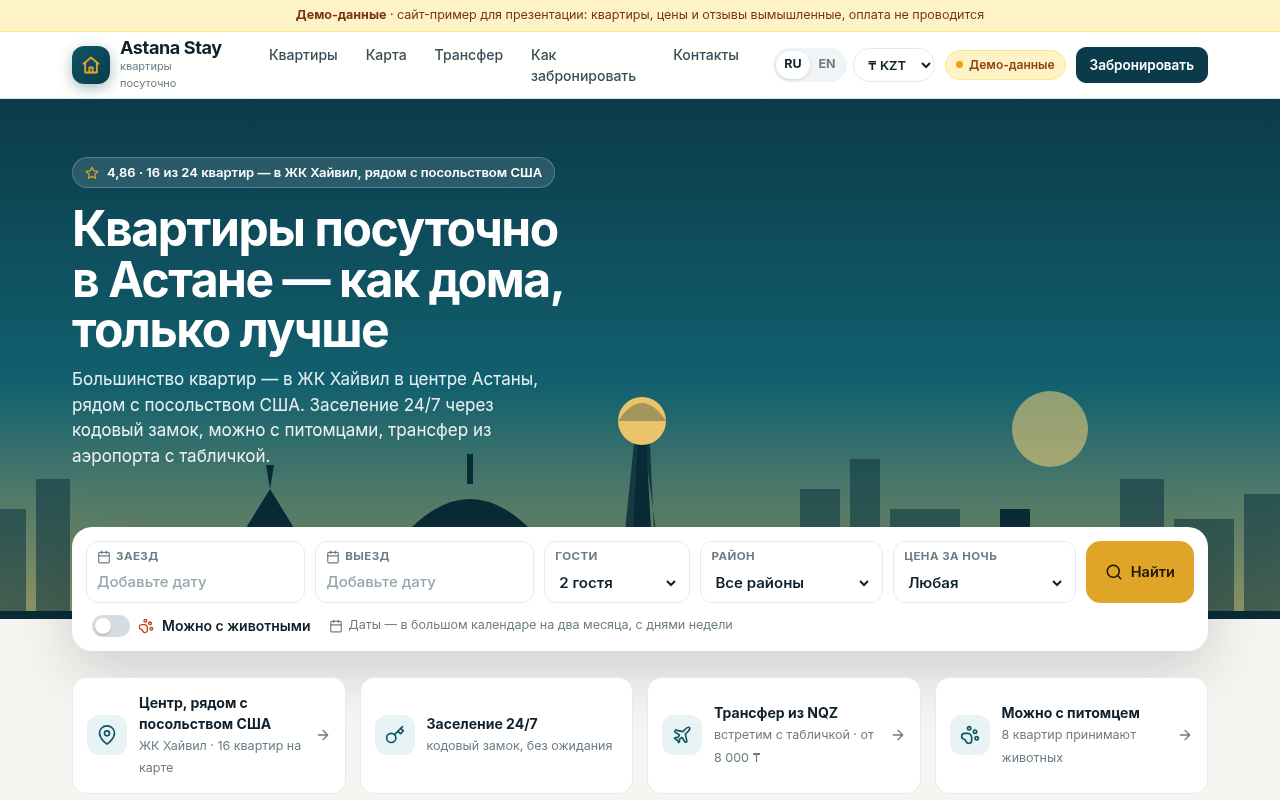
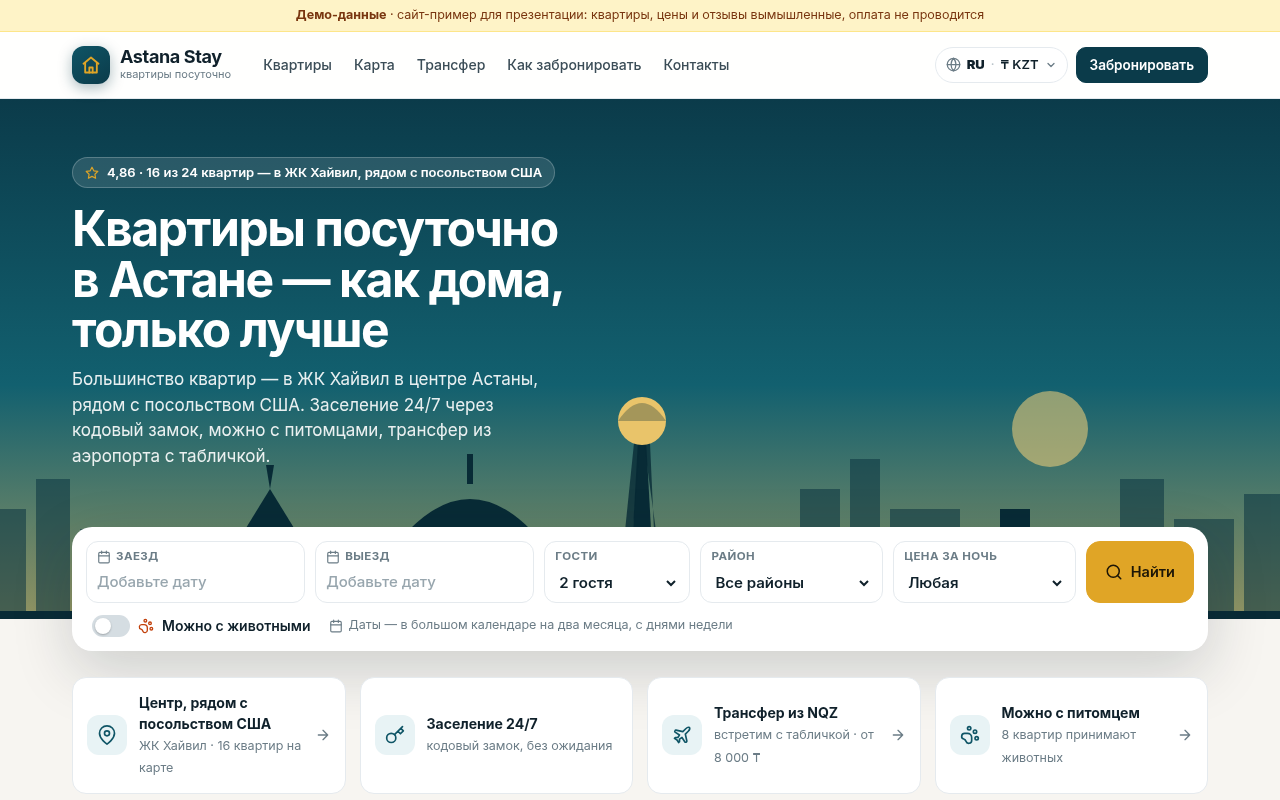
Шапка сайта: всё в одну строку, язык и валюта в одном меню, бургер на узких экранах

Changed region(s): [[0.0938, 0.0312, 0.6562, 0.125], [0.6875, 0.0625, 0.8438, 0.125]]

diff --git a/assets/guest.css b/assets/guest.css
@@ -13,15 +13,17 @@ h1,h2,h3,h4{margin:0;letter-spacing:-.015em}
 .demo-ribbon{background:#fef3c7;color:#78350f;font-size:12.5px;text-align:center;padding:6px 12px;border-bottom:1px solid #fde68a}
 .demo-ribbon b{font-weight:700}
 header.site{position:sticky;top:0;z-index:40;background:rgba(255,255,255,.92);backdrop-filter:blur(10px);border-bottom:1px solid var(--line)}
-.hdr{display:flex;align-items:center;gap:22px;height:66px}
-.logo{display:flex;align-items:center;gap:10px;text-decoration:none}
+.hdr{display:flex;align-items:center;gap:18px;height:66px;flex-wrap:nowrap}
+.hdr>*{flex:none}
+.logo{display:flex;align-items:center;gap:10px;text-decoration:none;white-space:nowrap}
 .logo-mk{width:38px;height:38px;border-radius:12px;background:linear-gradient(145deg,var(--brand2),var(--brand));display:grid;place-items:center;color:var(--accent);box-shadow:0 4px 14px rgba(11,59,74,.35);flex:none}
 .logo b{font-size:18px;letter-spacing:-.02em;display:block;line-height:1.1}
 .logo small{font-size:11px;color:var(--muted);display:block}
-.hnav{display:flex;gap:4px;margin-left:10px}
-.hnav a{text-decoration:none;color:var(--ink2);font-weight:500;padding:8px 12px;border-radius:10px;font-size:14px}
+.hnav{display:flex;gap:2px;margin-left:4px;flex-wrap:nowrap}
+.hnav a{text-decoration:none;color:var(--ink2);font-weight:500;padding:8px 10px;border-radius:10px;font-size:14px;white-space:nowrap}
 .hnav a:hover{background:#f1f4f6}
-.hright{margin-left:auto;display:flex;align-items:center;gap:10px}
+.hright{margin-left:auto;display:flex;align-items:center;gap:8px;flex-wrap:nowrap}
+.hright .btn{white-space:nowrap}
 .demo-badge{display:inline-flex;align-items:center;gap:6px;background:#fef3c7;color:#92400e;border:1px solid #fde68a;font-weight:600;font-size:12px;padding:5px 10px;border-radius:999px;white-space:nowrap}
 .demo-badge i{width:7px;height:7px;border-radius:50%;background:#f59e0b;display:inline-block}
 .btn{display:inline-flex;align-items:center;justify-content:center;gap:8px;height:44px;padding:0 18px;border-radius:12px;font-weight:650;font-size:14.5px;border:1px solid var(--line);background:#fff;color:var(--ink);transition:all .15s;white-space:nowrap;text-decoration:none}
@@ -180,7 +182,7 @@ textarea.inp{height:auto;min-height:70px;padding:10px 13px;resize:vertical}
 .recap .ln span:last-child{font-weight:600;text-align:right}
 .toast{position:fixed;left:50%;bottom:22px;transform:translateX(-50%);background:#10212b;color:#fff;padding:11px 16px;border-radius:12px;z-index:120;font-size:14px;box-shadow:0 10px 30px rgba(0,0,0,.3);max-width:calc(100% - 24px);animation:pop .2s}
 .mbar{display:none}
-@media (max-width:1020px){.search-card{grid-template-columns:1fr 1fr 1fr}.search-card .btn{min-height:50px}.grid{grid-template-columns:repeat(2,minmax(0,1fr))}.perks{grid-template-columns:repeat(2,minmax(0,1fr))}.hnav{display:none}}
+@media (max-width:1020px){.search-card{grid-template-columns:1fr 1fr 1fr}.search-card .btn{min-height:50px}.grid{grid-template-columns:repeat(2,minmax(0,1fr))}.perks{grid-template-columns:repeat(2,minmax(0,1fr))}}
 @media (max-width:860px){.map-wrap,.mcont,.form-grid{grid-template-columns:minmax(0,1fr)}.bookbox{position:static}.steps,.revs{grid-template-columns:minmax(0,1fr)}.fgrid{grid-template-columns:minmax(0,1fr)}}
 @media (max-width:640px){
   .wrap{padding:0 16px}
@@ -495,9 +497,37 @@ body.dp-lock{overflow:hidden}
 .sr{position:absolute;width:1px;height:1px;overflow:hidden;clip:rect(0 0 0 0);white-space:nowrap}
 .map-svg .hv text{pointer-events:none}
 @media (max-width:640px){
-  .hright .demo-badge{display:none}          /* на телефоне «Демо-данные» — в ленте над шапкой */
-  .logo b{font-size:15px}
+    .logo b{font-size:15px}
   .lang button{min-width:30px;padding:0 6px}
   .cursel select{padding:0 6px;font-size:12.5px}
-  body.sb-on .lsw{display:none}
 }
+
+/* ===== шапка: компактный выбор языка/валюты и меню-бургер ===== */
+.lsw{position:relative}
+.lcb{display:inline-flex;align-items:center;gap:6px;height:36px;padding:0 10px;border:1px solid var(--line);border-radius:999px;background:#fff;font-size:13px;font-weight:650;color:var(--ink);white-space:nowrap}
+.lcb:hover{border-color:#cfd8de}
+.lcb .ic{color:var(--muted)}
+.lcb .lcd{color:#b8c3c9;font-weight:400}
+.lpop{position:absolute;right:0;top:44px;width:240px;background:#fff;border:1px solid var(--line);border-radius:14px;box-shadow:0 18px 40px rgba(16,33,43,.16);padding:12px;z-index:60}
+.lpop[hidden]{display:none}
+.lp-h{font-size:11px;font-weight:700;letter-spacing:.05em;text-transform:uppercase;color:var(--muted);margin:2px 2px 6px}
+.lpop .lang{display:flex;margin-bottom:12px}
+.lpop .lang button{flex:1;height:32px}
+.curs{display:grid;grid-template-columns:1fr 1fr;gap:6px}
+.curs button{display:flex;align-items:center;gap:6px;padding:7px 9px;border:1px solid var(--line);border-radius:10px;font-size:13px;font-weight:650;text-align:left;white-space:nowrap}
+.curs button b{width:16px;text-align:center}
+.curs button.on{border-color:var(--brand);background:#eef6f8;color:var(--brand)}
+.burger{display:none;width:40px;height:40px;border-radius:12px;border:1px solid var(--line);background:#fff;place-items:center;color:var(--ink)}
+.burger[aria-expanded="true"]{background:#f1f4f6}
+.mnav{border-top:1px solid var(--line);background:#fff;box-shadow:0 14px 30px rgba(16,33,43,.1)}
+.mnav[hidden]{display:none}
+.mnav .wrap{display:flex;flex-direction:column;padding-top:8px;padding-bottom:14px}
+.mnav a:not(.btn){text-decoration:none;color:var(--ink);font-weight:600;font-size:15.5px;padding:12px 4px;border-bottom:1px solid #f1f4f6}
+.mnav .btn{margin-top:12px}
+.btn.block{width:100%}
+@media (max-width:1180px){.hnav a{padding:8px 8px;font-size:13.5px}.hdr{gap:14px}}
+@media (max-width:1080px){.hnav{display:none}.burger{display:grid}.logo small{display:none}}
+@media (min-width:1081px){.mnav{display:none!important}}
+body.sb-on .burger{display:grid}
+body.sb-on .hbook{display:none}
+@media (max-width:640px){.hbook{display:none}.lcb{padding:0 9px}}

diff --git a/assets/guest.js b/assets/guest.js
@@ -18,10 +18,12 @@ let CUR = localStorage.getItem(CUR_LS) || (IS_EN ? 'USD' : 'KZT'); if(!FX.show[C
 if(window.I18N) I18N.applyStatic();
 BRAND.apply();
 function renderSwitch(){
-  const shown = FX_CODES.filter(c=>c==='KZT' || FX.show[c]);
-  $('lsw').innerHTML = `<div class="lang" role="group" aria-label="Language / Язык"><button type="button" data-lang="ru" class="${IS_EN?'':'on'}" aria-pressed="${!IS_EN}">RU</button><button type="button" data-lang="en" class="${IS_EN?'on':''}" aria-pressed="${IS_EN}">EN</button></div>`
-    + (shown.length>1 ? `<label class="cursel"><span class="sr">${tx("Валюта")}</span><select id="curSel" aria-label="${tx("Валюта")}">${shown.map(c=>`<option value="${c}" ${c===CUR?'selected':''}>${FX_CUR[c].sym} ${c}</option>`).join('')}</select></label>` : '');
+  const shown = FX_CODES.filter(c=>c==='KZT' || FX.show[c]); const open = !!S_LP;
+  $('lsw').innerHTML = `<button type="button" class="lcb" id="lcb" aria-haspopup="true" aria-expanded="${open}" aria-controls="lpop" aria-label="${tx("Язык и валюта")}">${ic('globe',15)}<b>${IS_EN?'EN':'RU'}</b><span class="lcd">·</span><span class="lcs">${FX_CUR[CUR].sym} ${CUR}</span><svg class="ic" width="12" height="12" viewBox="0 0 24 24" fill="none" stroke="currentColor" stroke-width="2.6" stroke-linecap="round" stroke-linejoin="round"><path d="m6 9 6 6 6-6"/></svg></button>
+    <div class="lpop" id="lpop" ${open?'':'hidden'}><div class="lp-h">${tx("Язык")}</div><div class="lang" role="group" aria-label="Language / Язык"><button type="button" data-lang="ru" class="${IS_EN?'':'on'}" aria-pressed="${!IS_EN}">Русский</button><button type="button" data-lang="en" class="${IS_EN?'on':''}" aria-pressed="${IS_EN}">English</button></div>
+    ${shown.length>1?`<div class="lp-h">${tx("Валюта")}</div><div class="curs">${shown.map(c=>`<button type="button" data-cur="${c}" class="${c===CUR?'on':''}" aria-pressed="${c===CUR}"><b>${FX_CUR[c].sym}</b>${c}</button>`).join('')}</div>`:''}</div>`;
 }
+let S_LP = false;
 renderSwitch();
 const conv = kzt => fxConv(kzt, CUR, FX);
 const fc = v => fxFmt(v, CUR);
@@ -762,7 +764,19 @@ function rerenderAll(){
   syncSearch(); renderGrid(); renderPerks(); renderTransferSection(); renderSwitch();
   if($('modal').classList.contains('open')){ if(M.flow==='tr') readTrForm(); else readForm(); renderModal(); }
 }
-document.addEventListener('change', e=>{ if(e.target.id==='curSel'){ CUR=e.target.value; localStorage.setItem(CUR_LS, CUR); rerenderAll(); } });
+/* язык/валюта (одна кнопка с выпадающим окном) и меню-бургер в шапке */
+function setLP(v){ S_LP = v; const p=$('lpop'), b=$('lcb'); if(p) p.hidden=!v; if(b) b.setAttribute('aria-expanded', String(v)); }
+function setMenu(v){ const m=$('mnav'), b=$('burger'); m.hidden=!v; b.setAttribute('aria-expanded', String(v)); }
+document.addEventListener('click', e=>{
+  const t=e.target;
+  if(t.closest('#lcb')){ setLP(!S_LP); setMenu(false); return; }
+  const cb=t.closest('[data-cur]'); if(cb){ CUR=cb.dataset.cur; try{ localStorage.setItem(CUR_LS, CUR); }catch(_){} S_LP=false; rerenderAll(); return; }
+  if(S_LP && !t.closest('#lpop')) setLP(false);
+  if(t.closest('#burger')){ setMenu($('mnav').hidden); return; }
+  if(t.closest('#mnav a')) setMenu(false);
+});
+document.addEventListener('keydown', e=>{ if(e.key==='Escape'){ if(S_LP) setLP(false); if(!$('mnav').hidden) setMenu(false); } });
+window.addEventListener('resize', ()=>{ if(innerWidth>1080 && !document.body.classList.contains('sb-on') && !$('mnav').hidden) setMenu(false); });
 document.addEventListener('click', e=>{ const b=e.target.closest('[data-lang]'); if(b && window.I18N) I18N.set(b.dataset.lang); });
 window.addEventListener('storage', e=>{
   if(e.key===STORE_KEY){ ST=Store.load(); rerenderAll(); }

diff --git a/index.html b/index.html
@@ -15,8 +15,9 @@
     <a class="logo" href="./"><span class="logo-mk" id="logoMk" data-brand="logo"></span><span><b data-brand="name">Astana Stay</b><small data-brand="tagline">квартиры посуточно</small></span></a>
     <nav class="hnav"><a href="#catalog">Квартиры</a><a href="#map">Карта</a><a href="#transfer">Трансфер</a><a href="#how">Как забронировать</a><a href="#contacts">Контакты</a></nav>
     <button type="button" class="sbar" id="sbar" hidden aria-label="Изменить поиск"></button>
-    <div class="hright"><div class="lsw" id="lsw"></div><span class="demo-badge"><i></i>Демо-данные</span><a class="btn brand sm" href="#catalog">Забронировать</a></div>
+    <div class="hright"><div class="lsw" id="lsw"></div><a class="btn brand sm hbook" href="#catalog">Забронировать</a><button type="button" class="burger" id="burger" aria-label="Меню" aria-expanded="false" aria-controls="mnav"><svg class="ic" width="20" height="20" viewBox="0 0 24 24" fill="none" stroke="currentColor" stroke-width="2.2" stroke-linecap="round"><path d="M4 7h16M4 12h16M4 17h16"/></svg></button></div>
   </div>
+  <nav class="mnav" id="mnav" hidden aria-label="Меню"><div class="wrap"><a href="#catalog">Квартиры</a><a href="#map">Карта</a><a href="#transfer">Трансфер</a><a href="#how">Как забронировать</a><a href="#contacts">Контакты</a><a class="btn brand block" href="#catalog">Забронировать</a></div></nav>
 </header>
 
 <section class="hero">

diff --git a/assets/i18n-en.js b/assets/i18n-en.js
@@ -505,5 +505,8 @@ window.I18N && (I18N.en = {
 "Жубанова": "Zhubanov",
 "Рыскулова": "Ryskulov",
 "Сейфуллина": "Seifullin",
-"Кенесары": "Kenesary"
+"Кенесары": "Kenesary",
+"Язык": "Language",
+"Язык и валюта": "Language and currency",
+"Меню": "Menu"
 });
